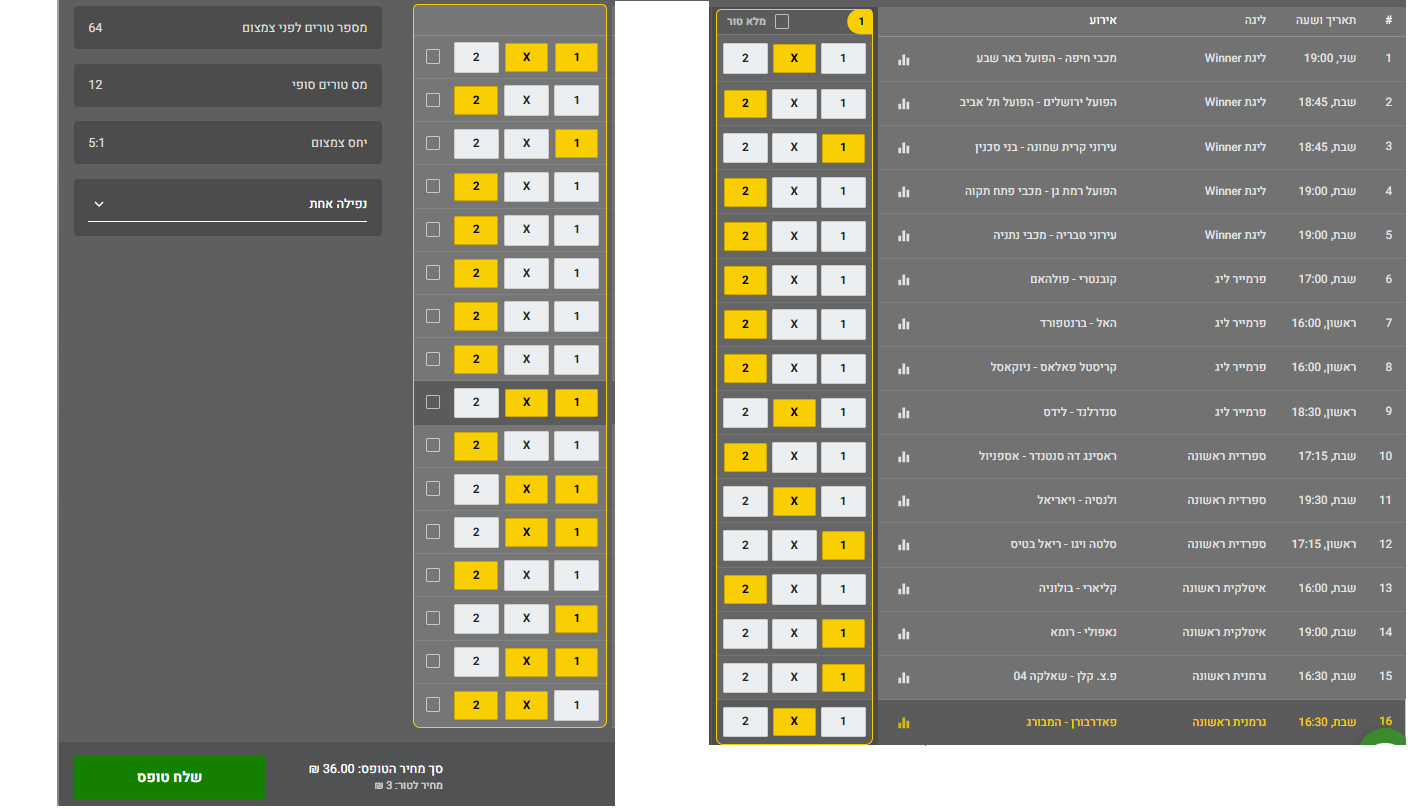
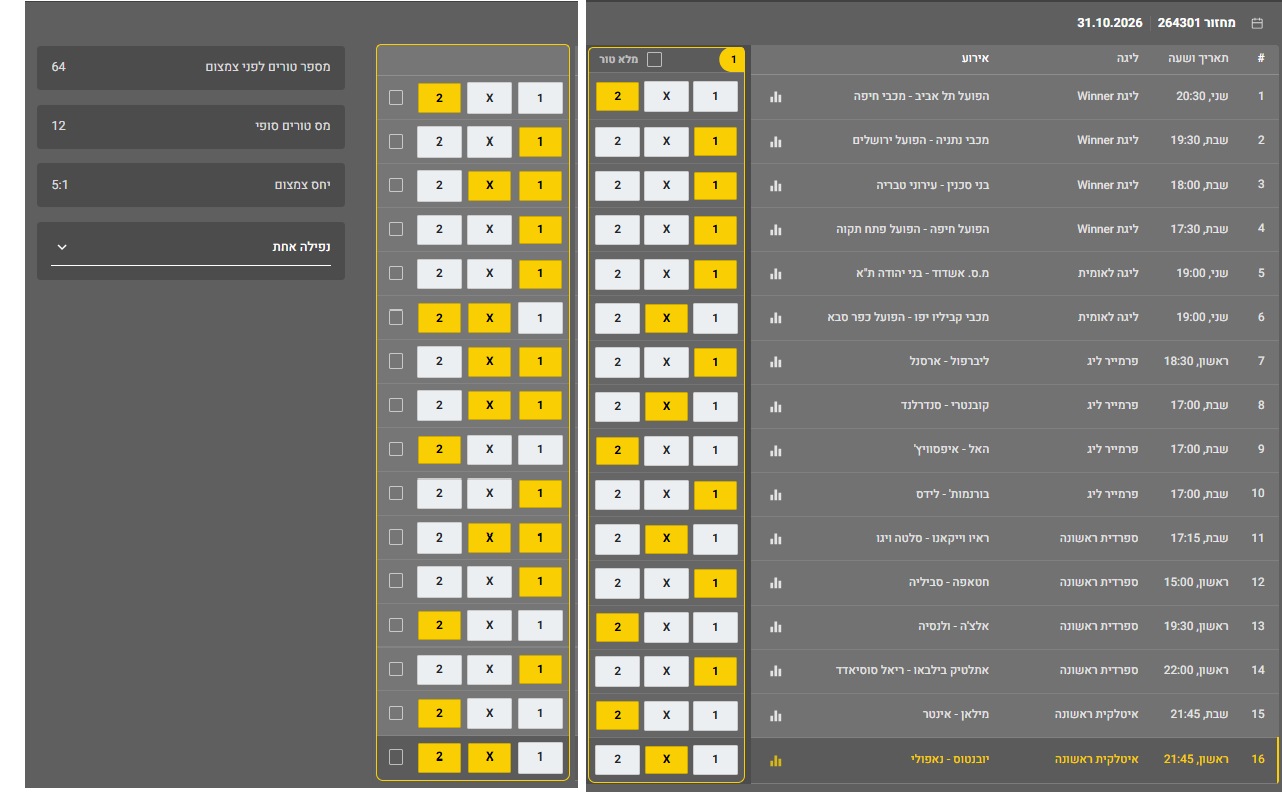
Update winwin slides with new game data from games.txt

diff --git a/winwin/index.html b/winwin/index.html
@@ -141,113 +141,113 @@
 
         <section class="game-slide">
           <div class="game-title">משחק 1</div>
-          <div class="game-matchup">מכבי חיפה - הפועל באר שבע</div>
-          <div class="game-body">שתי הקבוצות הן מהחזקות בישראל והמפגשים ביניהן בדרך כלל צמודים מאוד. יתרון הביתיות של חיפה משמעותי, אך באר שבע מספיק איכותית כדי להוציא תיקו, ולכן הכפול מכסה את שני התרחישים הסבירים ביותר</div>
-          <div class="game-recommendation">X1 : ההמלצה</div>
+          <div class="game-matchup">הפועל ת"א - מכבי חיפה</div>
+          <div class="game-body">מכבי חיפה מגיעה בדרך כלל עם סגל עמוק ואיכותי יותר כמעט בכל עמדה. גם במשחקי חוץ היא יודעת לשלוט בקצב ולהכריע משחקים מול יריבות נחותות</div>
+          <div class="game-recommendation">2 : ההמלצה</div>
         </section>
 
         <section class="game-slide">
           <div class="game-title">משחק 2</div>
-          <div class="game-matchup">הפועל ירושלים - הפועל תל אביב</div>
-          <div class="game-body">להפועל ת"א בדרך כלל סגל עמוק ואיכותי יותר. אם הפועל ת"א תגיע בכושר סביר, היא אמורה לייצר יותר מצבים ולתרגם את היתרון המקצועי לניצחון</div>
-          <div class="game-recommendation">2 : ההמלצה</div>
-        </section>
-
-        <section class="game-slide">
-          <div class="game-title">משחק 3</div>
-          <div class="game-matchup">קריית שמונה - בני סכנין</div>
-          <div class="game-body">קריית שמונה בבית היא בדרך כלל קבוצה שקשה לשבור. סכנין מתקשה לא פעם במשחקי חוץ, ולכן הביתיות מטה כאן את הכף לכיוון 1</div>
+          <div class="game-matchup">מכבי נתניה - הפועל ירושלים</div>
+          <div class="game-body">נתניה נהנית מיתרון ביתיות ומסגל התקפי איכותי יותר. הפועל ירושלים היא קבוצה מאורגנת שקשה לשבור, אך לאורך 90 דקות אני רואה יותר דרכי ניצחון לנתניה</div>
           <div class="game-recommendation">1 : ההמלצה</div>
         </section>
 
         <section class="game-slide">
-          <div class="game-title">משחק 4</div>
-          <div class="game-matchup">הפועל רמת גן - מכבי פ"ת</div>
-          <div class="game-body">פערי האיכות והניסיון נוטים לטובת מכבי פ"ת. אם המשחק יתפתח בצורה רגילה ולא חריגה, למכבי פ"ת יש יותר כלים התקפיים להכריע</div>
-          <div class="game-recommendation">2 : ההמלצה</div>
-        </section>
-
-        <section class="game-slide">
-          <div class="game-title">משחק 5</div>
-          <div class="game-matchup">עירוני טבריה - מכבי נתניה</div>
-          <div class="game-body">נתניה מחזיקה בדרך כלל בסגל חזק יותר ובניסיון רב יותר ברמות הגבוהות. זה אחד המשחקים שאני רואה כבעלי סיכוי גבוה יחסית לניצחון חוץ</div>
-          <div class="game-recommendation">2 : ההמלצה</div>
-        </section>
-
-        <section class="game-slide">
-          <div class="game-title">משחק 6</div>
-          <div class="game-matchup">קובנטרי - פולהאם</div>
-          <div class="game-body">פולהאם מגיעה מרמה מקצועית גבוהה יותר ומסגל בעל איכות רחבה יותר. גם בחוץ היא אמורה להיות מסוגלת לשלוט בקצב המשחק ולנצח</div>
-          <div class="game-recommendation">2 : ההמלצה</div>
-        </section>
-
-        <section class="game-slide">
-          <div class="game-title">משחק 7</div>
-          <div class="game-matchup">האל - ברנטפורד</div>
-          <div class="game-body">ברנטפורד היא אחת הבחירות החזקות במחזור מבחינתי. ההבדל ברמה, בעומק הסגל ובאיכות האישית נוטה בבירור לכיוון האורחים</div>
-          <div class="game-recommendation">2 : ההמלצה</div>
-        </section>
-
-        <section class="game-slide">
-          <div class="game-title">משחק 8</div>
-          <div class="game-matchup">קריסטל פאלאס - ניוקאסל</div>
-          <div class="game-body">ניוקאסל מחזיקה יותר איכות בחלק הקדמי ויותר עומק בסגל. למרות שפאלאס קבוצה ביתית לא פשוטה, היתרון המקצועי הכולל הוא של ניוקאסל</div>
-          <div class="game-recommendation">2 : ההמלצה</div>
-        </section>
-
-        <section class="game-slide">
-          <div class="game-title">משחק 9</div>
-          <div class="game-matchup">סנדרלנד - לידס</div>
-          <div class="game-body">זה משחק שקשה מאוד להכריע בו. לידס איכותית, אבל סנדרלנד בבית יכולה לקחת נקודות כמעט מכל יריבה ולכן תיקו או ניצחון ביתי נראים סבירים יותר מאשר ניצחון חוץ חד</div>
+          <div class="game-title">משחק 3</div>
+          <div class="game-matchup">בני סכנין - עירוני טבריה</div>
+          <div class="game-body">סכנין בבית עדיפה על הנייר, אך היא לא תמיד יציבה מספיק כדי להיחשב באנקר. מאידך, ניצחון חוץ נראה פחות סביר ולכן הכפול מכסה את התרחיש המסוכן ביותר, תיקו</div>
           <div class="game-recommendation">X1 : ההמלצה</div>
         </section>
 
         <section class="game-slide">
-          <div class="game-title">משחק 10</div>
-          <div class="game-matchup">ראסינג סנטנדר - אספניול</div>
-          <div class="game-body">לאספניול מסורת, ניסיון וסגל שבדרך כלל מתאים לרמות הגבוהות יותר. גם במגרש חוץ היא צריכה להגיע עם יתרון מקצועי מסוים</div>
+          <div class="game-title">משחק 4</div>
+          <div class="game-matchup">הפועל חיפה - הפועל פ"ת</div>
+          <div class="game-body">הפועל חיפה קבוצה מאורגנת יותר ובעלת יתרון איכותי במספר עמדות מפתח. בבית היא צריכה לקחת את הנקודות מול יריבה שנוטה להסתבך מול קבוצות עדיפות</div>
+          <div class="game-recommendation">1 : ההמלצה</div>
+        </section>
+
+        <section class="game-slide">
+          <div class="game-title">משחק 5</div>
+          <div class="game-matchup">מ.ס אשדוד - בני יהודה</div>
+          <div class="game-body">לאשדוד יתרון ביתי וניסיון ברמות הגבוהות יותר. בני יהודה מסוגלת להיות מסוכנת במתפרצות, אבל במבחן האיכות הכוללת אני נוטה לצד של אשדוד</div>
+          <div class="game-recommendation">1 : ההמלצה</div>
+        </section>
+
+        <section class="game-slide">
+          <div class="game-title">משחק 6</div>
+          <div class="game-matchup">מכבי יפו - הפועל כפר סבא</div>
+          <div class="game-body">זה אחד המשחקים הקשים ביותר לקריאה במחזור. פערי הרמות אינם גדולים, ולכן הסיכוי לתיקו גבוה יחסית</div>
+          <div class="game-recommendation">X2 : ההמלצה</div>
+        </section>
+
+        <section class="game-slide">
+          <div class="game-title">משחק 7</div>
+          <div class="game-matchup">ליברפול - ארסנל</div>
+          <div class="game-body">משחק צמרת שבו כל טעות קטנה יכולה להכריע. היתרון של ליברפול הוא הביתיות, אבל ארסנל מספיק חזקה כדי לצאת עם נקודה. קשה להצדיק סימון יחיד במשחק כזה</div>
+          <div class="game-recommendation">X1 : ההמלצה</div>
+        </section>
+
+        <section class="game-slide">
+          <div class="game-title">משחק 8</div>
+          <div class="game-matchup">קובנטרי - סנדרלנד</div>
+          <div class="game-body">שתי קבוצות ברמה דומה יחסית ועם יכולת להפתיע. הביתיות של קובנטרי מטה מעט את הכף, אבל התיקו כאן חי מאוד ולכן הכפול מתבקש</div>
+          <div class="game-recommendation">X1 : ההמלצה</div>
+        </section>
+
+        <section class="game-slide">
+          <div class="game-title">משחק 9</div>
+          <div class="game-matchup">האל - איפסוויץ'</div>
+          <div class="game-body">מבין משחקי החוץ במחזור זה אחד הסימונים שאני הכי אוהב. איפסוויץ' נראית קבוצה עם יותר איכות ויכולת להכריע משחקים גם מחוץ לביתה</div>
           <div class="game-recommendation">2 : ההמלצה</div>
         </section>
 
         <section class="game-slide">
+          <div class="game-title">משחק 10</div>
+          <div class="game-matchup">בורנמות' - לידס</div>
+          <div class="game-body">בורנמות' נהנית מיתרון ביתי משמעותי ומסגל מנוסה יותר. לידס יכולה להקשות, אך בדרך כלל מתקשה יותר במשחקי חוץ מול יריבות ברמה הזו</div>
+          <div class="game-recommendation">1 : ההמלצה</div>
+        </section>
+
+        <section class="game-slide">
           <div class="game-title">משחק 11</div>
-          <div class="game-matchup">ולנסיה - ויאריאל</div>
-          <div class="game-body">דרבי אזורי ספרדי קלאסי שבו הביתיות מקבלת משקל כפול. ויאריאל בהחלט יכולה לנצח, אבל ולנסיה בבית מפסידה מעט יחסית במשחקים כאלה ולכן הכפול נראה נכון</div>
+          <div class="game-matchup">ראיו וייקאנו - סלטה ויגו</div>
+          <div class="game-body">מפגש ספרדי טיפוסי בין קבוצות שקשה מאוד לייצר ביניהן פערים. ראיו חזקה יותר בביתה, אך סלטה מספיק איכותית כדי לגרד תיקו</div>
           <div class="game-recommendation">X1 : ההמלצה</div>
         </section>
 
         <section class="game-slide">
           <div class="game-title">משחק 12</div>
-          <div class="game-matchup">סלטה ויגו - בטיס</div>
-          <div class="game-body">סלטה היא קבוצה שקשה מאוד לנצח בבלאידוס. בטיס איכותית אך לא תמיד יציבה במשחקי חוץ, ולכן אני מעדיף ללכת עם הביתיות</div>
-          <div class="game-recommendation">X1 : ההמלצה</div>
+          <div class="game-matchup">חטאפה - סביליה</div>
+          <div class="game-body">חטאפה היא אחת הקבוצות שהכי מנצלות את יתרון הבית שלה בליגה הספרדית. היא משחקת כדורגל קשוח, מקשה על יריבות להגיע למצבים ומוציאה הרבה נקודות במשחקים צמודים</div>
+          <div class="game-recommendation">1 : ההמלצה</div>
         </section>
 
         <section class="game-slide">
           <div class="game-title">משחק 13</div>
-          <div class="game-matchup">קליארי - בולוניה</div>
-          <div class="game-body">בולוניה נראית חזקה ומאורגנת יותר טקטית. קליארי אמנם נהנית מהביתיות, אבל לאורך זמן הקבוצה האיכותית יותר היא בולוניה</div>
+          <div class="game-matchup">אלצ'ה - ולנסיה</div>
+          <div class="game-body">ולנסיה מחזיקה ביתרון איכותי ברוב אזורי המגרש. אמנם משחק חוץ בספרד אף פעם אינו פשוט, אך מבין שלוש התוצאות ניצחון חוץ נראה הסביר ביותר</div>
           <div class="game-recommendation">2 : ההמלצה</div>
         </section>
 
         <section class="game-slide">
           <div class="game-title">משחק 14</div>
-          <div class="game-matchup">נאפולי - רומא</div>
-          <div class="game-body">נאפולי בבית בדרך כלל מכתיבה את הקצב מול רוב קבוצות הליגה. רומא מסוכנת, אך יתרון הבית והאיכות ההתקפית נותנים כאן עדיפות לנאפולי</div>
+          <div class="game-matchup">אתלטיק בילבאו - ריאל סוסיאדד</div>
+          <div class="game-body">זה דרבי ולכן רמת הסיכון גבוהה מהרגיל. למרות זאת, בילבאו בבית היא אחת הקבוצות הקשות ביותר לניצוח בספרד ולכן אני נותן לה את היתרון</div>
           <div class="game-recommendation">1 : ההמלצה</div>
         </section>
 
         <section class="game-slide">
           <div class="game-title">משחק 15</div>
-          <div class="game-matchup">קלן - שאלקה</div>
-          <div class="game-body">קלן בבית היא יריבה קשה לכל קבוצה בליגות הגרמניות. שאלקה עדיין מסוגלת להפתיע, ולכן בחרתי בכפול שמגן מפני תיקו במשחק שעלול להיות קשוח</div>
-          <div class="game-recommendation">X1 : ההמלצה</div>
+          <div class="game-matchup">מילאן - אינטר</div>
+          <div class="game-body">אינטר נוטה להיות יציבה יותר לאורך זמן ובדרך כלל מגיעה למשחקים גדולים עם יותר עומק בסגל. דרבי הוא תמיד מסוכן, אך אם חייבים לבחור צד אחד אני עם אינטר</div>
+          <div class="game-recommendation">2 : ההמלצה</div>
         </section>
 
         <section class="game-slide">
           <div class="game-title">משחק 16</div>
-          <div class="game-matchup">פאדרבורן - המבורג</div>
-          <div class="game-body">המבורג היא הקבוצה החזקה יותר במפגש הזה על הנייר. עם זאת, פאדרבורן בבית יכולה לחלץ תיקו</div>
+          <div class="game-matchup">יובנטוס - נאפולי</div>
+          <div class="game-body">זה המשחק המסוכן ביותר במחזור מבחינתי. שתי קבוצות שיכולות לנצח בכל יום נתון, ולכן התיקו הופך לאופציה חזקה מאוד. הכפול מגן מפני אחת הנפילות הקלאסיות של טופסי ווינר</div>
           <div class="game-recommendation">2X : ההמלצה</div>
         </section>
 
